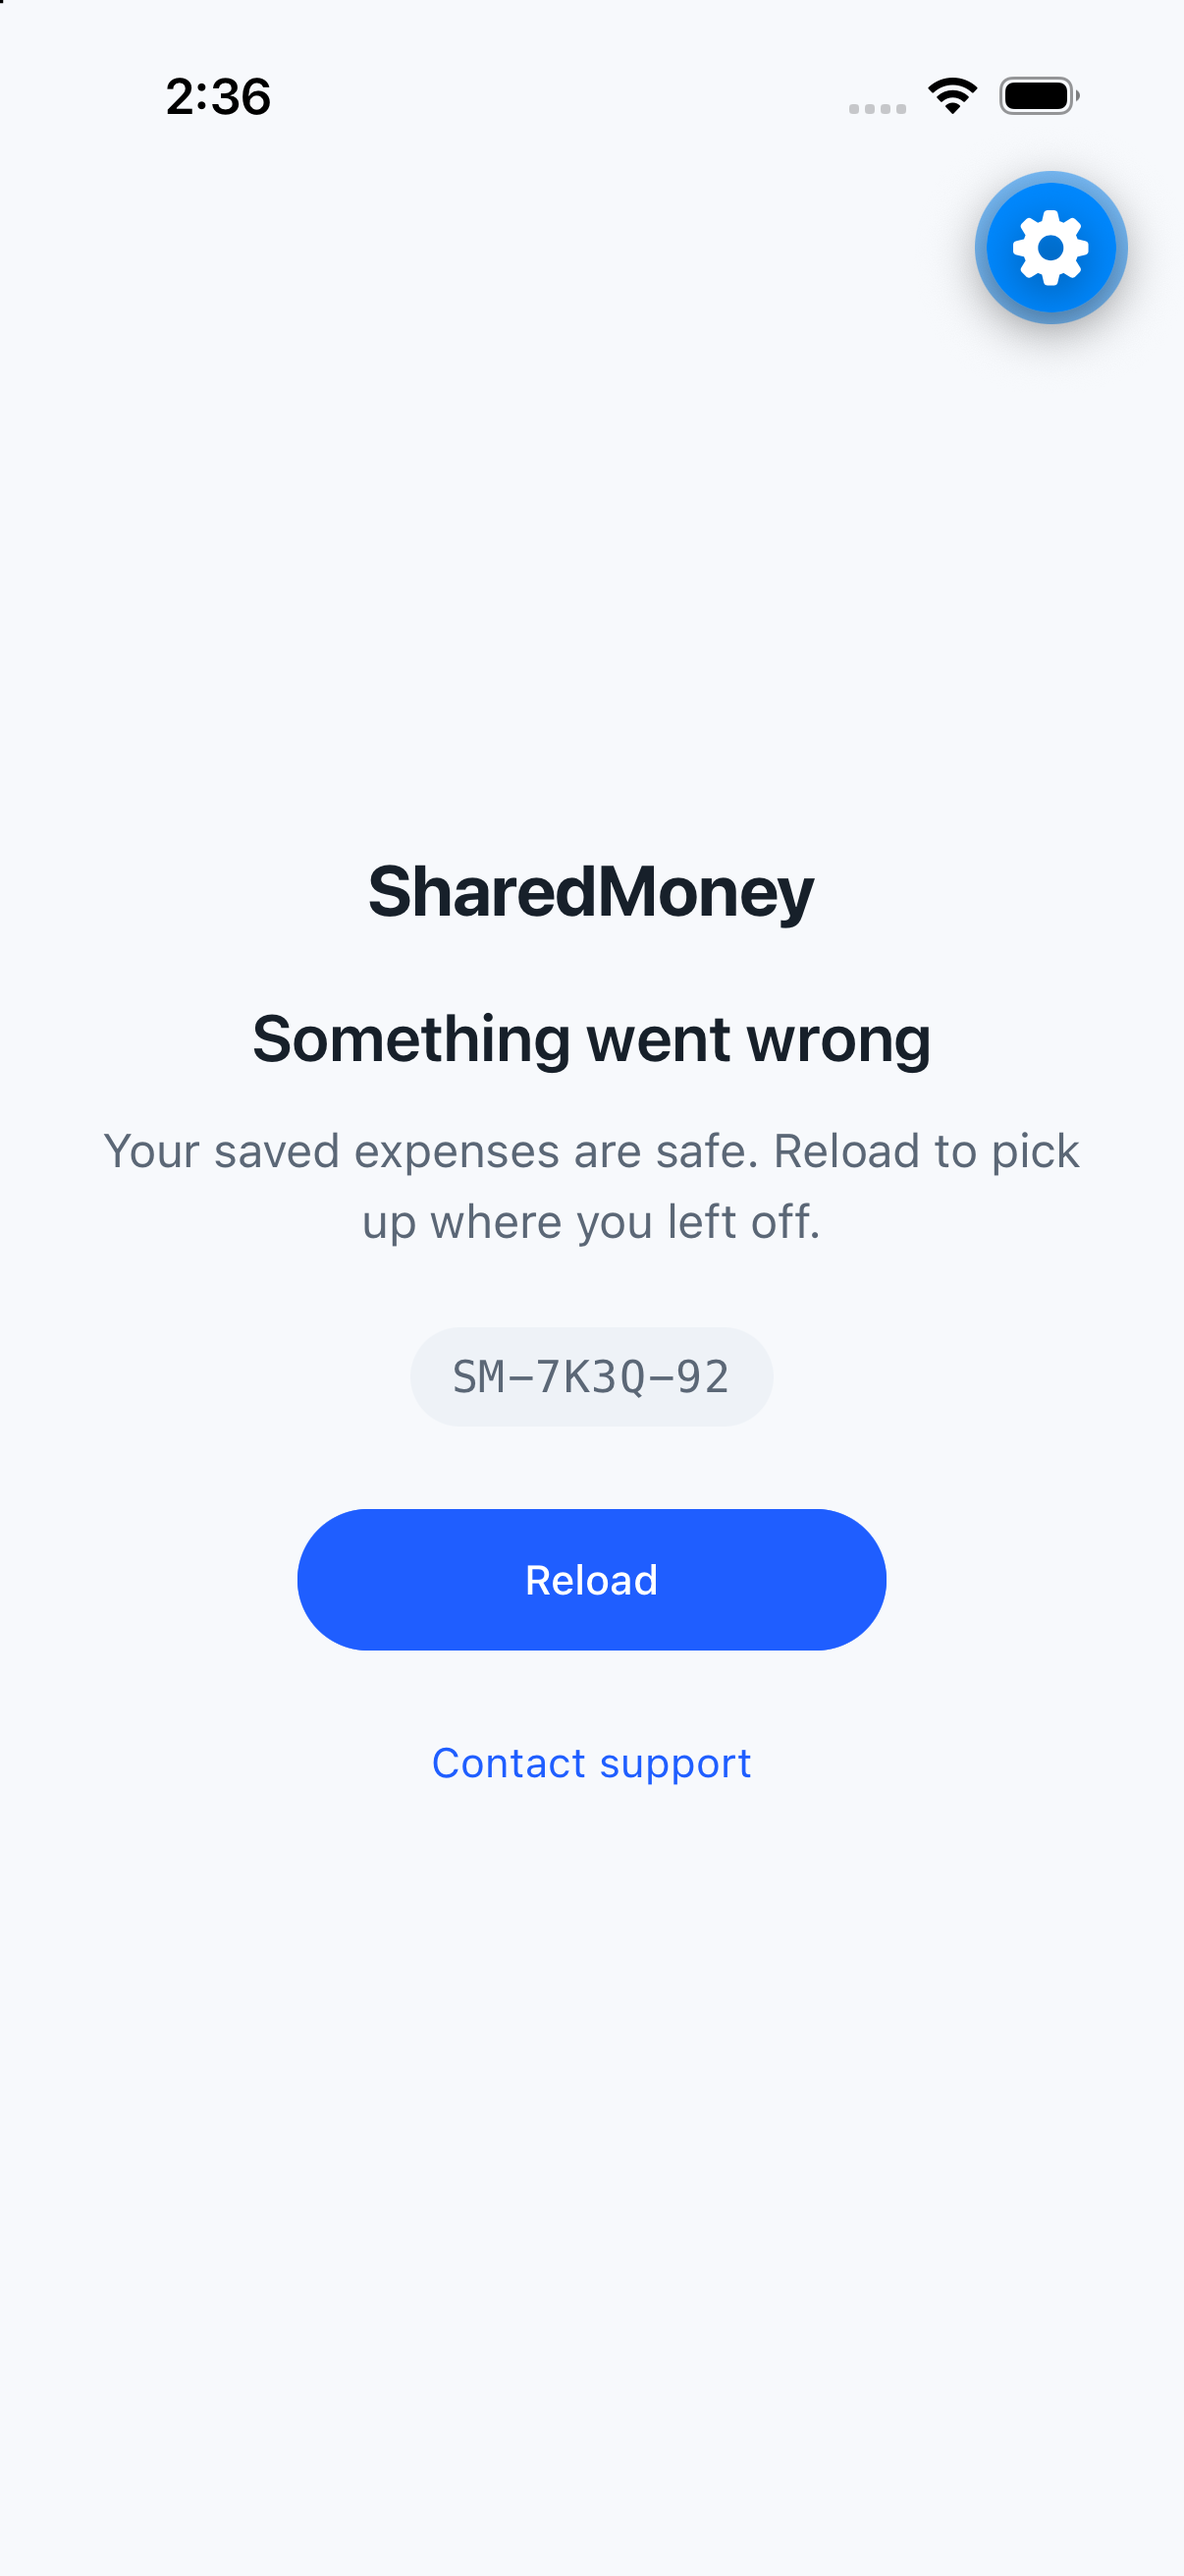
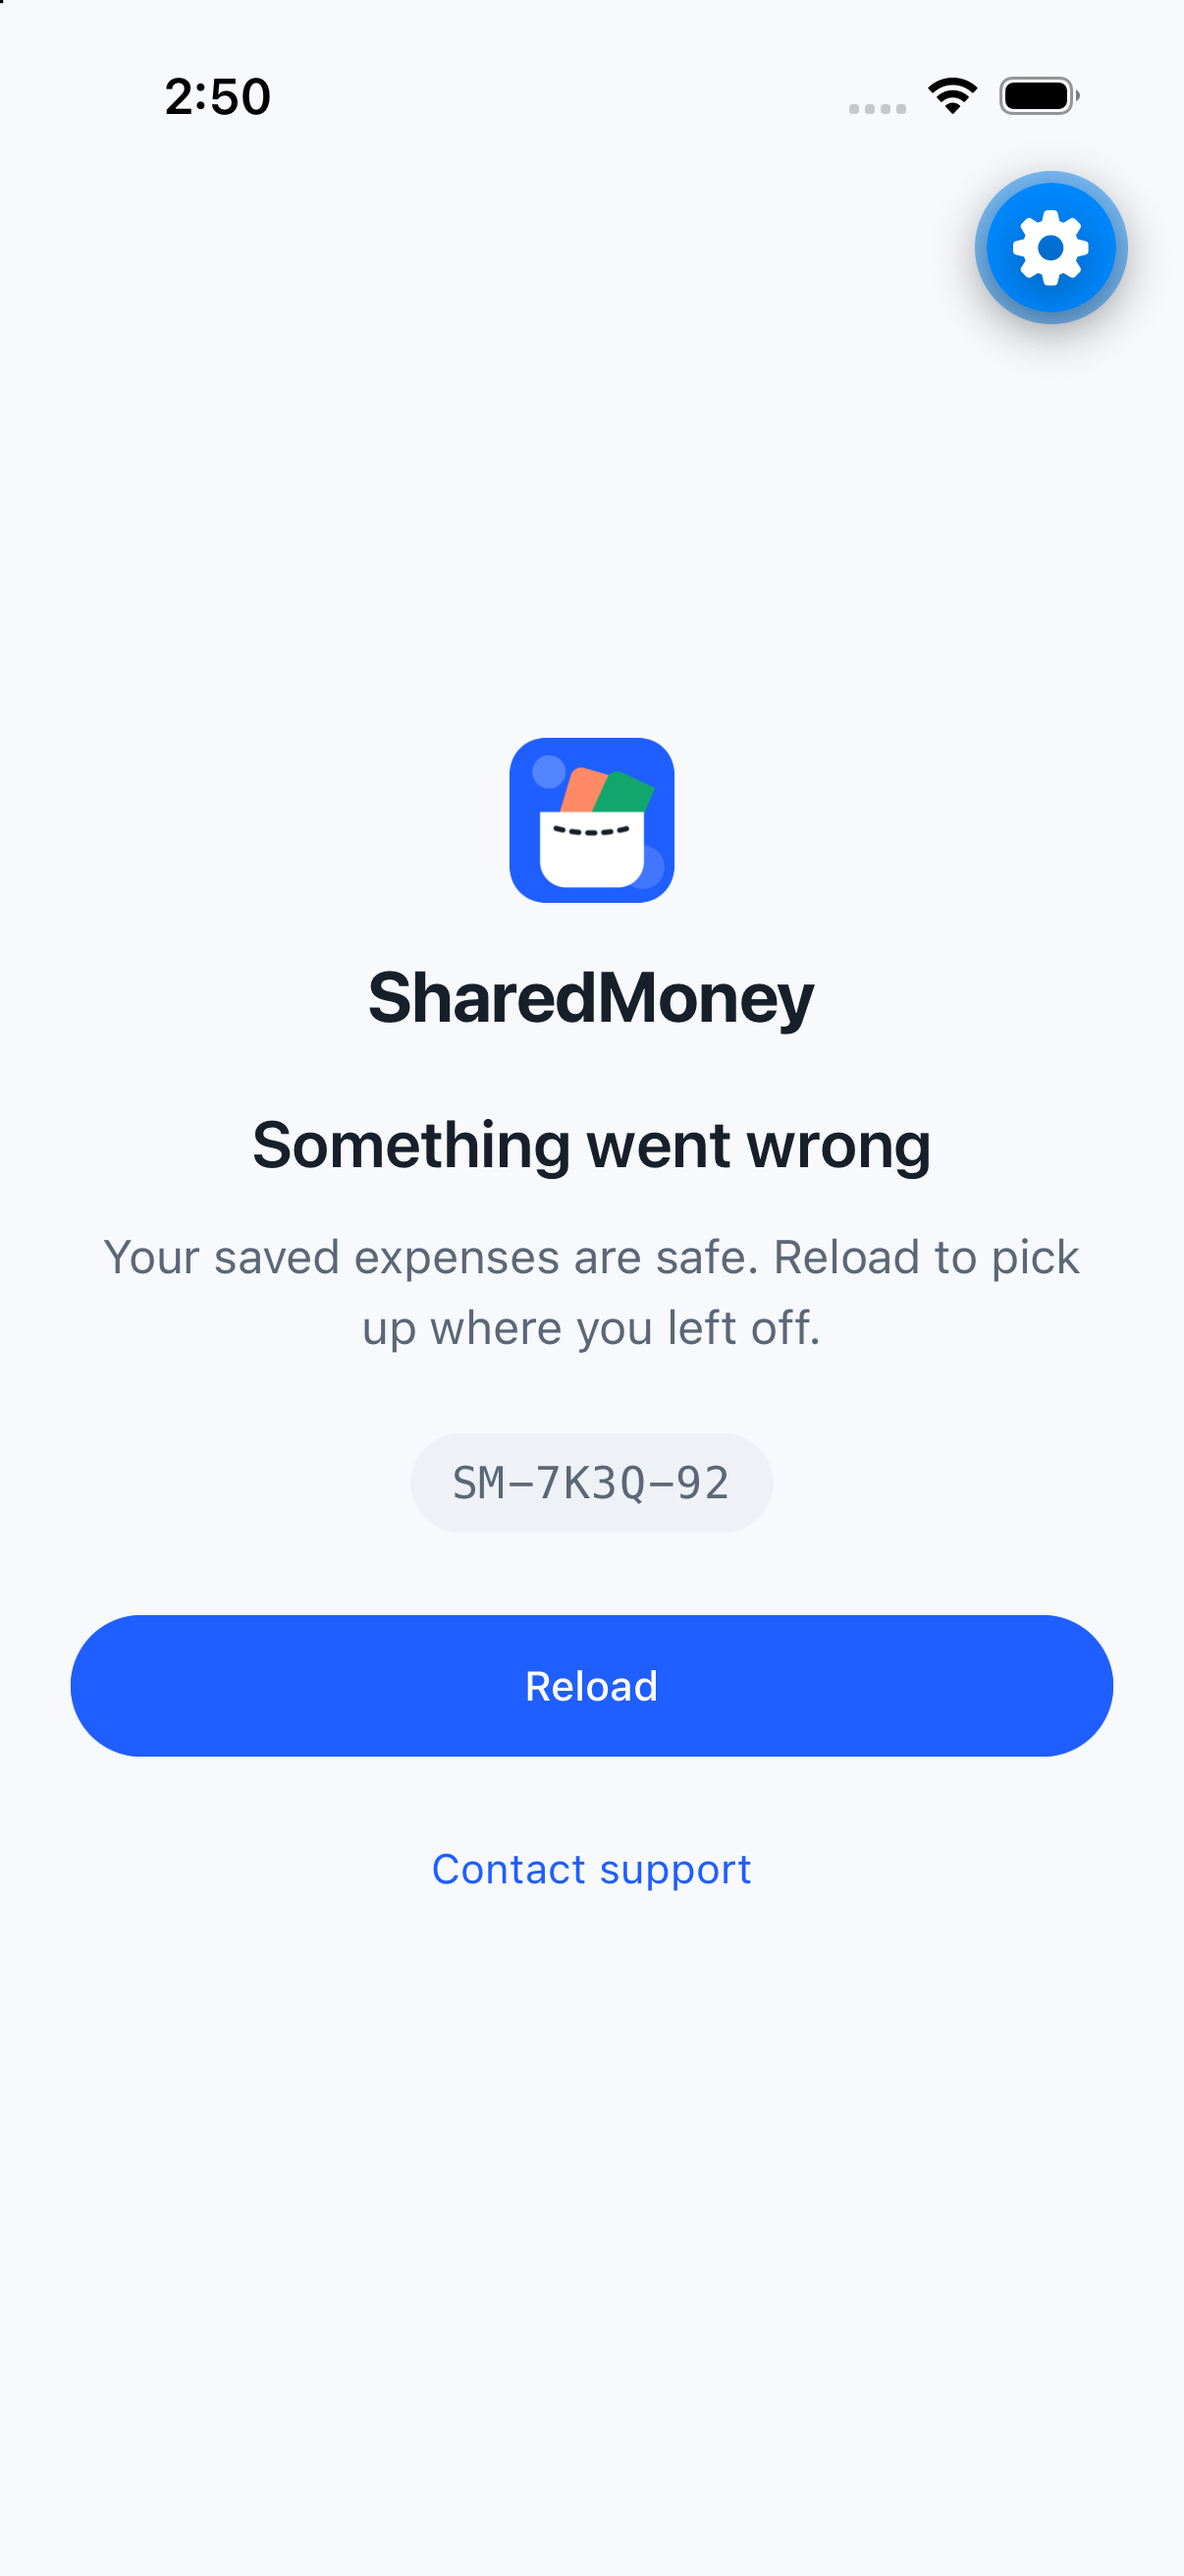
chore(mobile): reshoot #387 Design follow-up screenshots
Refresh light/dark dead, offline, crash shots; add cold-start Back→Home
proof via Maestro; widen crash Reload to full width with 24pt margins.

Changed region(s): [[0.0614, 0.278, 0.9511, 0.7414], [0.092, 0.4325, 0.1534, 0.4943], [0.1841, 0.0309, 0.2148, 0.0618]]

diff --git a/mobile/components/CrashErrorFallback.tsx b/mobile/components/CrashErrorFallback.tsx
@@ -178,18 +178,20 @@ export function CrashErrorFallback({
           </Pressable>
         ) : null}
 
-        <Button
-          mode="contained"
-          onPress={handleReload}
-          disabled={reloading}
-          loading={reloading}
-          style={styles.reload}
-          contentStyle={styles.reloadContent}
-          testID="crash-reload"
-          accessibilityLabel={reloading ? "Reloading" : "Reload"}
-        >
-          Reload
-        </Button>
+        <View style={styles.reloadWrap}>
+          <Button
+            mode="contained"
+            onPress={handleReload}
+            disabled={reloading}
+            loading={reloading}
+            style={styles.reload}
+            contentStyle={styles.reloadContent}
+            testID="crash-reload"
+            accessibilityLabel={reloading ? "Reloading" : "Reload"}
+          >
+            Reload
+          </Button>
+        </View>
 
         {supportReferenceId ? (
           <Pressable
@@ -275,10 +277,13 @@ const styles = StyleSheet.create({
     fontSize: 15,
     letterSpacing: 0.5,
   },
-  reload: {
-    marginTop: 12,
+  reloadWrap: {
     alignSelf: "stretch",
-    marginHorizontal: 0,
+    width: "100%",
+    marginTop: 12,
+  },
+  reload: {
+    width: "100%",
     borderRadius: 24,
   },
   reloadContent: {

diff --git a/docs/pr-387-walkthrough/README.md b/docs/pr-387-walkthrough/README.md
@@ -1,20 +1,26 @@
-# PR #387 screenshots (issue #377)
+# PR #387 screenshots (issue #377 Design follow-ups)
 
 Captured on iOS Simulator **PR386 iPhone 17 Pro** via Expo Go.
 
 | File | What |
 |------|------|
-| `01-dead-bill-link-light.png` | Dead bill link (light) |
-| `02-bill-offline-light.png` | Offline bill link + Retry (light) |
-| `03-crash-first-light.png` | First crash (no support ID) (light) |
-| `04-crash-repeat-light.png` | Repeat crash with `SM-7K3Q-92` + Contact support (light) |
-| `05-crash-copied-toast-light.png` | Repeat crash after tap-to-copy (“Copied” toast) (light) |
-| `06-dead-bill-link-dark.png` | Dead bill link (dark) |
-| `07-bill-offline-dark.png` | Offline bill link (dark) |
+| `01-dead-bill-link-light.png` | Dead bill — header **One-time bill**, CTA **Go to Home** (light) |
+| `02-bill-offline-light.png` | Offline + Retry (light) |
+| `03-crash-first-light.png` | First crash — logo mark, full-width Reload (light) |
+| `04-crash-repeat-light.png` | Repeat crash — `SM-7K3Q-92` + Contact support (light) |
+| `06-dead-bill-link-dark.png` | Dead bill (dark) |
+| `07-bill-offline-dark.png` | Offline (dark) |
 | `08-crash-first-dark.png` | First crash (dark) |
 | `09-crash-repeat-dark.png` | Repeat crash (dark) |
-| `10-crash-copied-toast-dark.png` | Copied toast (dark) |
+| `12-cold-start-back-to-home.png` | After cold-start deep link, Back → sign-in Home |
 
-**Not captured:** Contact support Mail compose — iOS Simulator has no Mail account/`mailto` handler (OSStatus -10814). Android dark crash shot skipped (emulator up but Expo Go not installed).
+## Cold-start back proof
 
-Dev-only triggers (stripped outside `__DEV__`): `exp://…/--/?preview=bill-dead|bill-offline|crash-first|crash-repeat|crash-copied` or `…/dev/crash` for a real throw.
+Maestro flow (sim): stop Expo Go → open `exp://127.0.0.1:8082/--/?preview=bill-dead` → assert dead-link copy → tap `split-bill-back` → assert **Log in to SharedMoney**. See `12-cold-start-back-to-home.png`.
+
+Deep-link bill entry uses `presentation="root"` (no Modal back stack); Back / Go to Home call `dismissBillLinkToHome` → groups route or sign-in when logged out.
+
+## Skipped
+
+- **Android dark crash**: emulator online, Expo Go not installed.
+- **Copied toast / mailto**: unchanged from prior pass; not re-requested in this Design follow-up.
